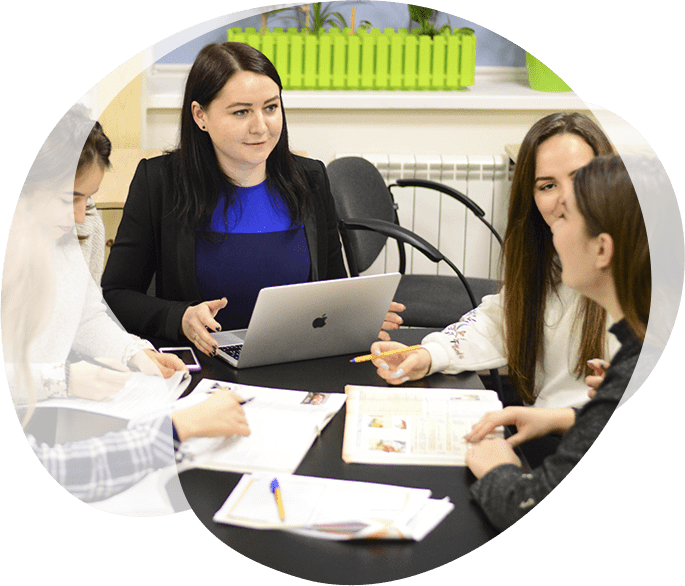
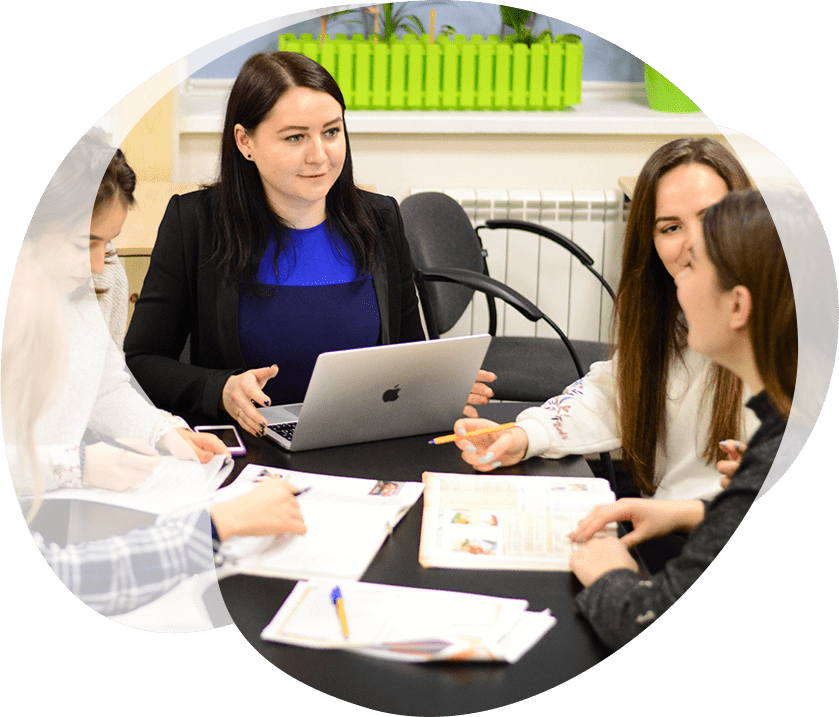
change header image

diff --git a/style/style.css b/style/style.css
@@ -278,6 +278,9 @@
 * {
   margin: 0px;
   padding: 0px;
+  transition-property: all;
+  transition-duration: 200ms;
+  transition-timing-function: linear;
 }
 
 a {
@@ -798,7 +801,6 @@ li {
 }
 
 /* header */
-
 
 .how-we-do {
   width: 280px;
@@ -2472,7 +2474,6 @@ li {
   border-color: rgba(255, 255, 255, 1);
   border-style: solid;
   color: #fff;
-
 }
 
 .eight-form-input::-webkit-input-placeholder {
@@ -2496,7 +2497,6 @@ li {
   margin: 0 auto;
 }
 
-
 .eight-form-button {
   width: 250px;
   height: 50px;
@@ -2506,7 +2506,12 @@ li {
   color: rgb(255, 255, 255);
   cursor: pointer;
   letter-spacing: 1.5px;
+}
 
+.eight-form-button:hover {
+  background-color: rgb(255, 255, 255);
+  color: rgb(255, 107, 8);
+  border: 2px solid rgb(255, 107, 8);
 }
 
 .eight-container {
@@ -2527,7 +2532,6 @@ li {
   line-height: 1.86;
   text-align: center;
   margin: 0 auto;
-
 }
 
 .eight-text {
@@ -2576,12 +2580,10 @@ li {
   background-position: top 32px left 22px;
   padding-top: 30px;
   padding-bottom: 25px;
-
 }
 
 .color-orange {
   color: #ff6b08;
-
 }
 
 .eight-logo {
@@ -2602,7 +2604,6 @@ li {
   font-family: "Montserrat";
   font-weight: 800;
   line-height: 10px;
-
 }
 
 .logo-title_adskiy {
@@ -2636,9 +2637,6 @@ li {
   }
 }
 
-
-
-
 @media (min-width: 768px) {
   .eight-container {
     width: 768px;
@@ -2668,7 +2666,6 @@ li {
 
   .eight-form-div {
     width: 400px;
-
   }
 
   .eight-form-input {
@@ -2681,7 +2678,6 @@ li {
     height: 120px;
     align-items: center;
     flex-direction: row;
-
   }
 
   .footer {
@@ -2728,7 +2724,7 @@ li {
   }
 }
 
-@media (min-width:1280px) {
+@media (min-width: 1280px) {
   .eight-container {
     width: 1280px;
     height: 750px;
@@ -2744,7 +2740,6 @@ li {
     font-size: 18px;
     width: 900px;
     text-align: center;
-
   }
 
   .eight-form-div {

diff --git a/index.html b/index.html
@@ -63,8 +63,15 @@
         ХОЧУ НА БЕСПЛАТНОЕ ЗАНЯТИЕ
       </button>
     </p>
-
-    <img class="header__picture" src="./img/pic.png" alt="students with teacher" />
+    <picture class="header__picture">
+      <source srcset="img/pic@2x.png" media="(min-width: 1280px) and (min-resolution: 192dpi) " />
+      <source srcset="img/pic.png" media="(min-width: 1280px)" />
+      <source srcset="img/pic-tablet@2x.png" media="(min-width: 768px) and (min-resolution: 192dpi)" />
+      <source srcset="img/pic-tablet.png" media="(min-width: 768px)" />
+      <source srcset="img/pic-mobile@2x.png" media="(min-width: 320px) and (min-resolution: 192dpi)" />
+      <source srcset="img/pic-mobile.png" media="(min-width:320px)" />
+      <img src="img/pic-mobile.png" alt="students with teacher">
+    </picture>
 
     <ul class="header__feauters-list">
       <li class="header__feauters-list-item header__feauters-list-item_student-icon">
